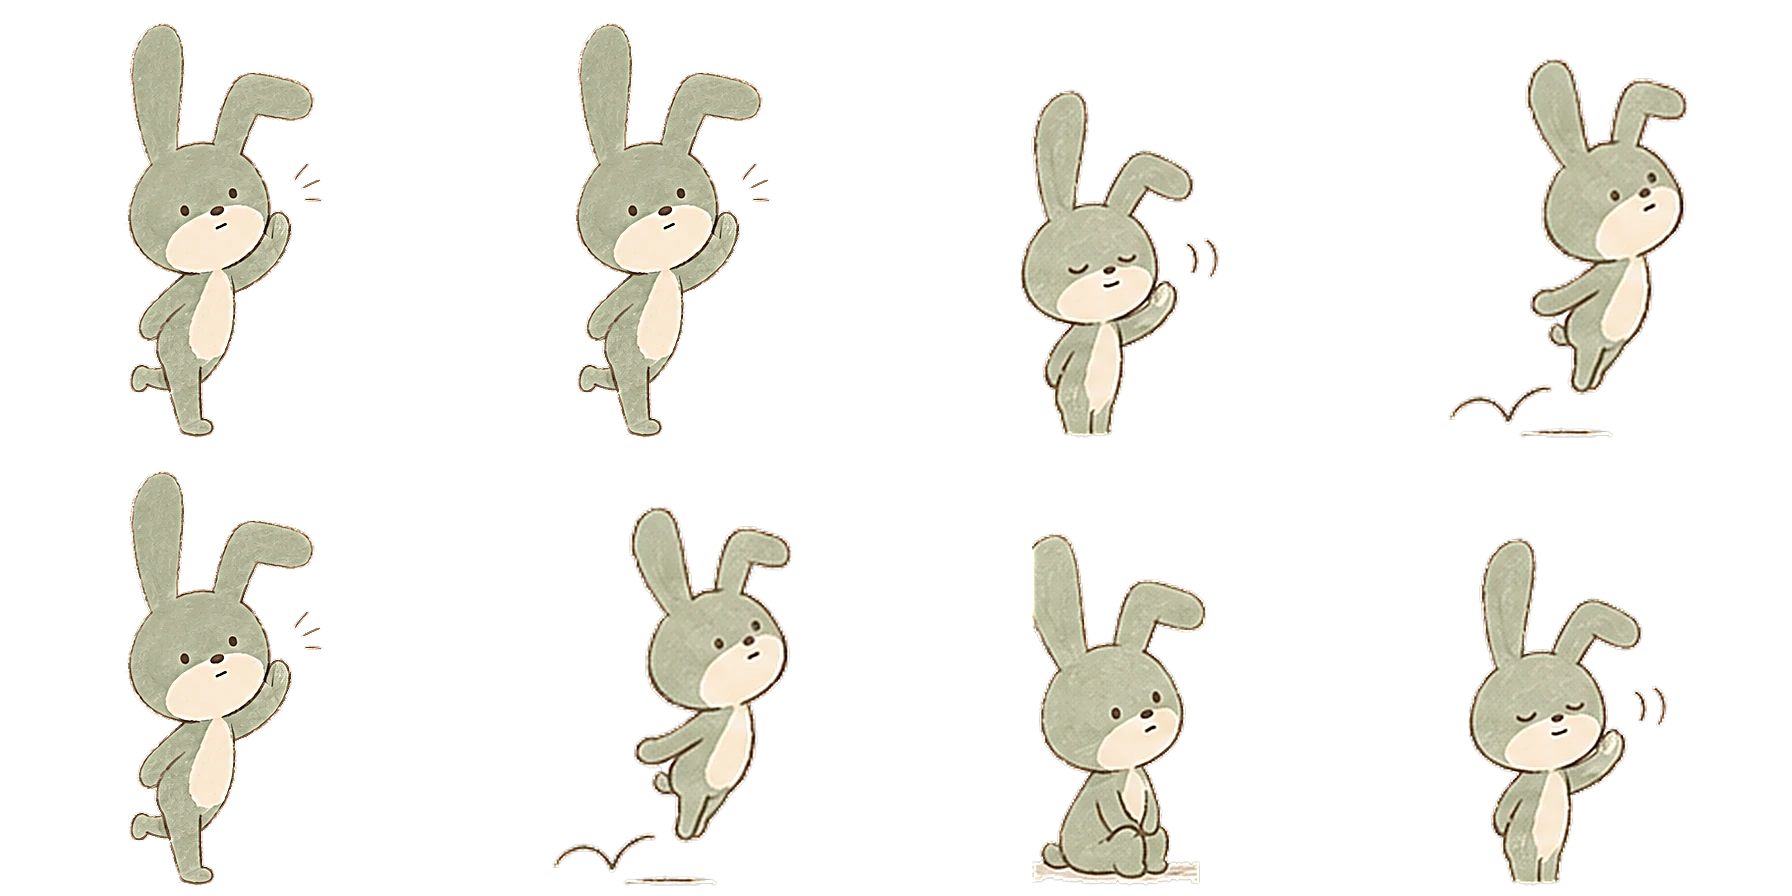
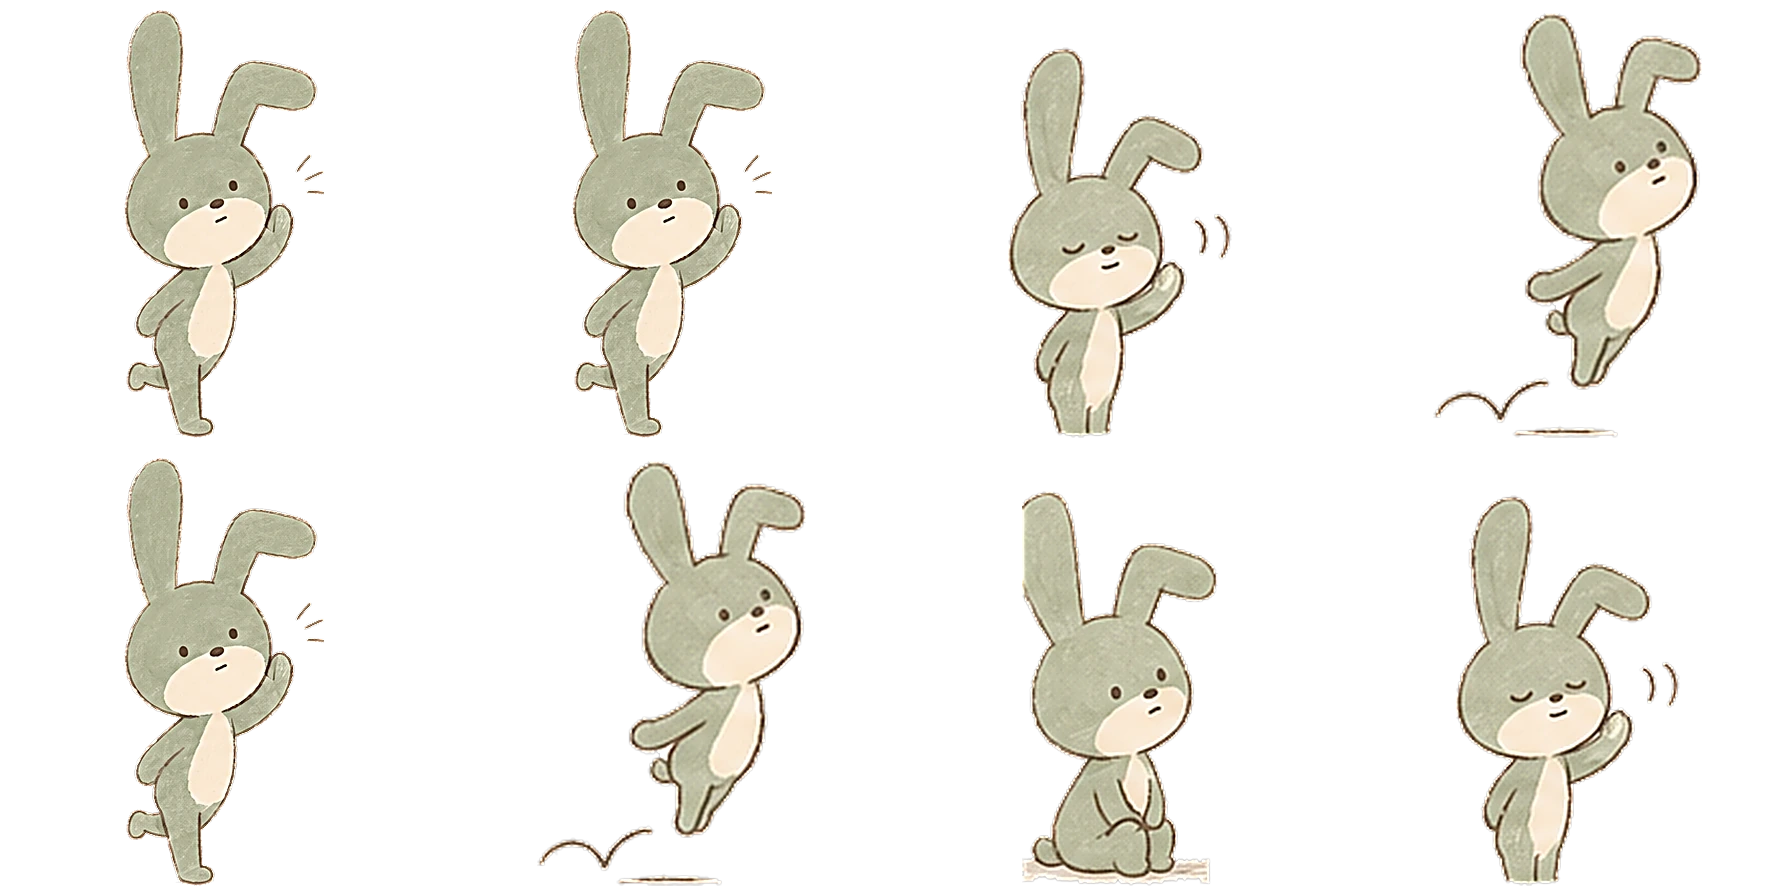
방송국 소개 카드 다시 구성 · 귀담이 12% 크게
- 소개 카드: 왼쪽 작은 무대(구간 색 바탕 + 발밑 그림자)에 세 친구를 한 묶음으로,
  오른쪽에 글. 두 칸을 한 덩어리로 카드 가운데. 말하는 말문이를 가운데,
  귀 기울이는 귀담이와 책 읽는 차분이가 양쪽에서 말문이 쪽을 봄. 휴대폰은 무대 위, 글 아래
- 귀담이: 라디오 장면 비율과 같지만 몸이 가늘어 작아 보여 말문이처럼 12% 크게
  (듣기·앉기·말하기 그림. 서 있는 그림·점프는 칸 높이 한계로 거의 그대로)

diff --git a/css/style.css b/css/style.css
@@ -760,22 +760,25 @@ p.jtokens { font-size: 30px; letter-spacing: 8px; }
 .region-hero-card h2 { word-break: keep-all; }
 @media (max-width: 560px) { .region-hero-card h2 .h2-range { display: block; font-size: .8em; } }
 
-/* 방송국 소개 카드: 친구 둘(왼쪽) · 글 · 친구 하나(오른쪽). 구간 카드와 다른 동작 */
-.journey .story { justify-content: center; gap: 32px; }
-.journey .story .story-text { flex: 0 1 auto; }
-.journey .story .friends.pair { width: 190px; }
-.journey .story .pair .pose { width: 60%; }
-.journey .story .pair .pose + .pose { margin-left: -16%; }
-.journey .story .pair .pose:nth-child(2) { width: 60%; }
-.journey .story .friends.solo { width: 130px; }
-.journey .story .solo .pose { width: 114px; transform: scaleX(-1); } /* 친구들 쪽(왼쪽)을 보게 */
+/* 방송국 소개 카드: 왼쪽은 세 친구가 함께 선 작은 무대, 오른쪽은 글. 두 칸을 한 덩어리로 카드 가운데에.
+   말하는 말문이를 가운데(가장 큼), 귀 기울이는 귀담이와 책 읽는 차분이가 양쪽에서 말문이 쪽을 본다.
+   구간 카드(인사하는 모습)와 다른 동작이고, 세 친구의 성격(말하기·듣기·차근차근)을 보여 준다 */
+.journey .story { display: grid; grid-template-columns: 300px minmax(0, 360px); justify-content: center; align-items: center; column-gap: 56px; row-gap: 18px; padding: 28px 24px; }
+.journey .story .story-art { position: relative; height: 176px; border-radius: 22px; background: var(--scene);
+  display: flex; justify-content: center; align-items: flex-end; padding-bottom: 14px; }
+.journey .story .story-art::after { content: ""; position: absolute; left: 14%; right: 14%; bottom: 16px; height: 10px; border-radius: 50%;
+  background: var(--scene-deep); opacity: .55; } /* 발밑 그림자: 세 친구가 같은 바닥에 선다 */
+.journey .story .story-art .pose { position: relative; z-index: 1; width: 128px; }
+.journey .story .story-art .pose + .pose { margin-left: -44px; }
+.journey .story .story-art .pose:nth-child(3) { margin-left: -36px; } /* 세 친구 사이 간격을 고르게(약 14px) */
+.journey .story .story-text { justify-self: start; }
 @media (max-width: 560px) {
-  .journey .story .friends.pair { width: 180px; }
-  .journey .story .friends.solo { width: 100px; } .journey .story .solo .pose { width: 100%; }
-  /* 휴대폰: 세 친구를 한 줄(둘 · 하나)로 위에, 글은 아래 가운데 */
-  .journey .story { display: grid; grid-template-columns: auto auto; justify-content: center; align-items: end; column-gap: 8px; row-gap: 14px; }
-  .journey .story .story-text { grid-column: 1 / -1; grid-row: 2; justify-self: center; }
-  .journey .story .friends.pair { width: 170px; } .journey .story .friends.solo { width: 102px; } /* 둘 그림 한 칸(170×60%)과 같은 크기 */
+  .journey .story { grid-template-columns: minmax(0, 320px); padding: 20px 16px; }
+  .journey .story .story-art { height: 150px; }
+  .journey .story .story-art .pose { width: 110px; }
+  .journey .story .story-art .pose + .pose { margin-left: -38px; }
+  .journey .story .story-art .pose:nth-child(3) { margin-left: -31px; }
+  .journey .story .story-text { justify-self: center; }
 }
 
 /* 구간 화면: 친구 발끝을 왼쪽 글 상자 아래 끝에 맞춘다 */

diff --git a/js/journey.js b/js/journey.js
@@ -331,12 +331,11 @@ export function Station() {
   $app.innerHTML = `${header("우리 목소리 방송국")}
     <section class="page journey">
       <div class="card story">
-        <div class="friends pair">${pose("nuri", "self")}${pose("bobo", "listen")}</div>
+        <div class="story-art" aria-hidden="true">${pose("minty", "listen")}${pose("nuri", "self")}${pose("bobo", "listen", { cls: "flip" })}</div>
         <div class="story-text"><p>말문이, 귀담이, 차분이의<br>작은 라디오 방송국이에요.</p>
         <p>이 세 친구들은 아직 영어를 몰라요.<br>
         <b>${esc(learnerGa())} 한 단을 마칠 때마다</b><br>목소리 카드가 한 장 생기고,<br>카드를 모으면 방송국에<br>새 물건이 생겨요!</p>
         <a class="small redo" href="#/welcome">👋 친구 소개 · 이름 다시 하기</a></div>
-        <div class="friends solo">${pose("minty", "rhythm")}</div>
       </div>
       ${onAir}
       ${REGIONS.slice(0, 4).map((r) => card(r)).join("")}
